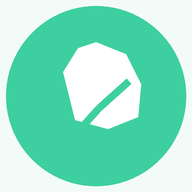
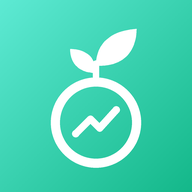
version 2 - changed app name to ISIGO

diff --git a/public/index.html b/public/index.html
@@ -1,7 +1,7 @@
 <!DOCTYPE html>
 <html lang="en"><head><meta charset="utf-8">
 <meta name="viewport" content="width=device-width, initial-scale=1, viewport-fit=cover">
-<title>Mint Budget</title>
+<title>ISIGO: Budget Tracker</title>
 <link rel="manifest" href="/manifest.webmanifest"><meta name="theme-color" content="#3ecfa0"><link rel="icon" href="/icon-192.png"><link rel="apple-touch-icon" href="/icon-192.png"><meta name="apple-mobile-web-app-capable" content="yes">
 <style>
 :root{box-sizing:border-box;padding-top:env(safe-area-inset-top,0px);padding-bottom:env(safe-area-inset-bottom,0px);--bg:#f3fbf8;--card:#fff;--ink:#12332b;--mut:#6b8a82;--mint:#3ecfa0;--mint2:#d9f5ea;--warn:#e9a93a;--bad:#e5645f;--line:#dcece6}
@@ -19,12 +19,34 @@ main{margin-left:240px;padding:24px;max-width:980px}
 @media(max-width:760px){aside{transform:translateX(-100%)}aside.open{transform:none}.scrim.open{display:block;position:fixed;inset:0;background:#0006;z-index:15}
 main{margin:0;padding:16px}.top{display:flex;align-items:center;gap:10px;margin-bottom:12px}.top button{all:unset;cursor:pointer;font-size:22px;padding:4px 8px}}
 h2{margin:0 0 4px;font-size:22px}
+.logo{display:flex;align-items:center;gap:10px}.logo .lg{width:32px;height:32px}
+.nl{margin:14px 12px 4px;color:var(--mut);font-size:11px;letter-spacing:.08em;text-transform:uppercase}
+.lg{display:block}.lg .ring,.lg .tr{stroke-dasharray:1;stroke-dashoffset:1;animation:dr .9s .1s ease forwards}
+.lg .tr{animation-duration:.6s;animation-delay:.9s}
+.lg .lf{transform-box:fill-box;transform-origin:0 100%;transform:scale(0);animation:gr .6s 1.3s cubic-bezier(.2,1.5,.4,1) forwards}
+.lg .l2{transform-origin:100% 100%;animation-delay:1.5s}
+@keyframes dr{to{stroke-dashoffset:0}}@keyframes gr{to{transform:scale(1)}}@keyframes fl{50%{transform:translateY(-5px)}}@keyframes fu{to{opacity:1;transform:none}}
+.lg.st *,.lg.fl *{animation:none!important;stroke-dashoffset:0!important;transform:scale(1)!important}
+.lg.fl{animation:fl 4s ease-in-out infinite}
+.tiles{display:grid;grid-template-columns:repeat(auto-fit,minmax(240px,1fr));gap:16px}
+.tile{position:relative;overflow:hidden;border-radius:24px;padding:22px;min-height:150px;display:flex;flex-direction:column;justify-content:space-between;gap:14px;cursor:pointer;color:#06281e;box-shadow:0 10px 28px color-mix(in srgb,var(--mint) 28%,transparent);transition:transform .2s}
+.tile:hover{transform:translateY(-3px)}.tile:active{transform:scale(.98)}
+.tile::after{content:"";position:absolute;right:-40px;top:-40px;width:150px;height:150px;border-radius:50%;background:#fff;opacity:.22}
+.t1{background:linear-gradient(135deg,#7eeacd,#2fc79a)}.t2{background:linear-gradient(135deg,#c6f6e6,#86e0c4)}
+.tile .ti{font-size:34px;line-height:1}.tile b{font-size:19px;display:block}.tile small{opacity:.8;font-size:13px;display:block;padding-right:34px}.tile .ar{position:absolute;right:20px;bottom:18px;font-size:22px;font-weight:700}
+#toast{position:fixed;left:50%;bottom:calc(24px + env(safe-area-inset-bottom,0px));transform:translate(-50%,30px);background:var(--ink);color:var(--bg);padding:10px 18px;border-radius:99px;font-size:14px;opacity:0;pointer-events:none;transition:.3s;z-index:90;max-width:90vw;text-align:center}
+#toast.show{opacity:1;transform:translate(-50%,0)}#toast.bad{background:var(--bad);color:#fff}
+#splash{position:fixed;inset:0;z-index:100;background:linear-gradient(160deg,#c3f5e3,#3ecfa0 60%,#14b88a);display:flex;align-items:center;justify-content:center;transition:opacity .6s}
+#splash.out{opacity:0;pointer-events:none}.sp{text-align:center;color:#06281e}.sp .lg{width:120px;height:120px;margin:0 auto 18px;filter:drop-shadow(0 10px 20px #0003)}.sp .lg rect{fill:rgba(255,255,255,.22)}
+.spt{font-size:40px;font-weight:800;letter-spacing:.18em;padding-left:.18em}.spt b{display:inline-block;opacity:0;transform:translateY(14px);animation:fu .5s forwards}
+.sps{opacity:0;animation:fu .6s 2.1s forwards;letter-spacing:.22em;text-transform:uppercase;font-size:12px;margin-top:4px}
+@media(prefers-reduced-motion:reduce){.lg *{animation:none!important;stroke-dashoffset:0!important;transform:scale(1)!important}.lg.fl,#splash *{animation:none!important;opacity:1!important;transform:none!important}}
 .home{position:relative;overflow:hidden;min-height:calc(100vh - 80px);padding:4px;isolation:isolate}
 .home .d1,.home .d2,.home .d3{position:absolute;z-index:-1;pointer-events:none}
 .home .d1{width:300px;top:-60px;right:-80px;opacity:.22}
 .home .d2{width:340px;bottom:-70px;left:-90px;opacity:.14;transform:rotate(-15deg)}
 .home .d3{right:6%;bottom:12%;opacity:.25}
-.hero{display:flex;gap:16px;align-items:center;margin:8px 0 22px}.hero .lg{width:64px;height:64px;flex:none}.hero h2{font-size:26px}.hero .sub{margin:0}
+.hero{display:flex;gap:16px;align-items:center;margin:8px 0 22px}.hero .lg{width:76px;height:76px;flex:none}.hero h2{font-size:26px}.hero .sub{margin:0}
 .home .card{background:color-mix(in srgb,var(--card) 85%,transparent);backdrop-filter:blur(6px)}p.sub{margin:0 0 18px;color:var(--mut)}
 .card{background:var(--card);border:1px solid var(--line);border-radius:18px;padding:16px;margin-bottom:14px}
 .grid{display:grid;grid-template-columns:repeat(auto-fit,minmax(150px,1fr));gap:12px;margin-bottom:14px}
@@ -45,17 +67,18 @@ label{display:block;font-size:13px;color:var(--mut);margin:10px 0 4px}
 .alert{padding:10px 14px;border-radius:12px;background:var(--mint2);margin-bottom:8px}.alert.bad{background:var(--bad);color:#fff}
 .tip{display:flex;gap:10px;padding:10px 0;border-bottom:1px solid var(--line)}.tip:last-child{border:0}
 </style></head><body>
-<aside id="side"><div class="logo">🌿 Mint Budget</div></aside>
+<svg width="0" height="0" style="position:absolute"><defs><linearGradient id="lgG" x1="0" y1="0" x2="1" y2="1"><stop offset="0" stop-color="#5eead4"/><stop offset="1" stop-color="#14b88a"/></linearGradient></defs></svg><aside id="side"></aside><div id="toast"></div>
 <div class="scrim" id="scrim" onclick="tg()"></div>
-<main><div class="top"><button onclick="tg()">☰</button><b>Mint Budget</b></div><div id="v"></div></main>
+<main><div class="top"><button onclick="tg()">☰</button><b>ISIGO</b></div><div id="v"></div></main>
 <script>
 const $=s=>document.querySelector(s);
-const NAV=[['home','🏠','Home'],['dash','📊','Dashboard'],['setup','⚙','Budget Setup'],['bills','🧾','Bills'],['quick','⚡','Quick Spend'],['tips','💡','Tips'],['notif','🔔','Reminders']];
-let DB={act:null,list:[]},S=null,view='home',qcat='🍔 Food',hr='m';
+const NAV=[['home','🏠','Home'],['Budget Tracker'],['budgets','🗂','My Budgets'],['dash','📊','Dashboard'],['setup','⚙','Budget Setup'],['bills','🧾','Bills'],['quick','⚡','Quick Spend'],['tips','💡','Tips'],['notif','🔔','Reminders'],['Savings'],['savings','🐷','Savings Tracker']];
+let DB={act:null,list:[]},S=null,view='home',qcat='🍔 Food',hr='m',DRAFT=null;
 const newB=n=>({id:Date.now(),name:n,created:Date.now(),cur:'₱',freq:'monthly',amt:0,d1:15,d2:30,bills:[],paid:{},spends:[],nOn:false,nDays:3});
 try{const j=JSON.parse(localStorage.getItem('mint2')||'null');if(j)DB=j;else{const o=JSON.parse(localStorage.getItem('mint')||'null');if(o&&(o.amt||(o.bills&&o.bills.length))){const b=Object.assign(newB('My Budget'),o);DB={act:b.id,list:[b]}}}}catch(e){}
 const save=()=>{try{localStorage.setItem('mint2',JSON.stringify(DB))}catch(e){}try{clearTimeout(window._ps);window._ps=setTimeout(syncPush,800)}catch(e){}};
-const pick=()=>{S=DB.list.find(b=>b.id===DB.act)||null};pick();
+DB.sav=DB.sav||[];DB.list=DB.list.filter(b=>b.amt>0||b.bills.length||b.spends.length);if(!DB.list.find(b=>b.id===DB.act))DB.act=DB.list[0]?DB.list[0].id:null;
+const pick=()=>{S=DRAFT||DB.list.find(b=>b.id===DB.act)||null};pick();
 const mk=()=>{const d=new Date();return d.getFullYear()+'-'+(d.getMonth()+1)};
 const m=n=>S.cur+Math.round(n).toLocaleString();
 const dueD=d=>{const n=new Date(),l=new Date(n.getFullYear(),n.getMonth()+1,0).getDate();return new Date(n.getFullYear(),n.getMonth(),Math.min(d,l))};
@@ -69,8 +92,8 @@ function calc(){const inc=S.amt*(S.freq==='bimonthly'?2:1),bt=S.bills.reduce((a,
 function sorted(){return[...S.bills].sort((a,b)=>(isPaid(a)-isPaid(b))||left(a.day)-left(b.day))}
 function due(b){const l=left(b.day);return isPaid(b)?'Paid ✓':l<0?`Overdue ${-l}d`:l===0?'Due today':`In ${l} day${l>1?'s':''}`}
 function tg(){$('#side').classList.toggle('open');$('#scrim').classList.toggle('open')}
-function go(x){view=x;$('#side').classList.remove('open');$('#scrim').classList.remove('open');render()}
-function nav(){$('#side').innerHTML='<div class="logo">🌿 Mint Budget</div>'+NAV.map(n=>`<button class="${view===n[0]?'on':''}" onclick="go('${n[0]}')"><span>${n[1]}</span>${n[2]}</button>`).join('')}
+function go(x){if(DRAFT&&x!=='setup'){DRAFT=null;pick()}view=x;$('#side').classList.remove('open');$('#scrim').classList.remove('open');render()}
+function nav(){$('#side').innerHTML=`<div class="logo">${logo('st')}ISIGO</div>`+NAV.map(n=>n.length<3?`<small class="nl">${n[0]}</small>`:`<button class="${view===n[0]?'on':''}" onclick="go('${n[0]}')"><span>${n[1]}</span>${n[2]}</button>`).join('')}
 function donut(c){const tot=Math.max(c.inc,c.bt+c.sp,1),seg=[[c.bt,'var(--warn)'],[c.sp,'#7aa7f0'],[Math.max(c.lf,0),'var(--mint)']];let o=25,s='';
  seg.forEach(([v,col])=>{const p=v/tot*100;s+=`<circle r="15.9" cx="21" cy="21" fill="none" stroke="${col}" stroke-width="5" stroke-dasharray="${p} ${100-p}" stroke-dashoffset="${o}"/>`;o-=p});
  const ring=c.lf<0?'<circle r="15.9" cx="21" cy="21" fill="none" stroke="var(--bad)" stroke-width="5"/>':'<circle r="15.9" cx="21" cy="21" fill="none" stroke="var(--mint2)" stroke-width="5"/>'+s;
@@ -87,13 +110,35 @@ function tips(c){const t=[];if(c.inc<=0)return[['👋','Start in Budget Setup: e
  t.push(['🛟','Rule of thumb: 50% needs, 30% wants, 20% savings. Build an emergency fund of 3 months of bills.']);
  if(S.freq==='bimonthly')t.push(['📅','Bi-monthly pay: pay big bills from the paycheck closest to their due date and keep a buffer from each.']);
  return t}
-const LOGO='<svg class="lg" viewBox="0 0 64 64"><circle cx="32" cy="32" r="30" fill="var(--mint)"/><path d="M32 14c11 4 17 13 14 25-13 3-23-4-25-15 2-5 6-8 11-10z" fill="#fff" opacity=".95"/><path d="M24 46c4-9 10-15 19-19" stroke="var(--mint)" stroke-width="2.5" fill="none" stroke-linecap="round"/></svg>';
+const logo=c=>`<svg class="lg ${c||''}" viewBox="0 0 96 96"><rect width="96" height="96" rx="26" fill="url(#lgG)"/><circle class="ring" pathLength="1" cx="48" cy="60" r="22" fill="none" stroke="#fff" stroke-width="5"/><path class="tr" pathLength="1" d="M48 38V28" stroke="#fff" stroke-width="3.5" stroke-linecap="round" fill="none"/><path class="tr" pathLength="1" d="M37 66L45 58L50 63L59 53" fill="none" stroke="#fff" stroke-width="4" stroke-linecap="round" stroke-linejoin="round"/><path class="lf" d="M48 29C48 17 56 10 70 9C70 22 62 30 48 29Z" fill="#fff"/><path class="lf l2" d="M48 33C48 25 43 20 34 20C34 28 39 33 48 33Z" fill="#fff" opacity=".85"/></svg>`;
 const DECO='<svg class="d1" viewBox="0 0 200 200" fill="none" stroke="var(--mint)"><circle cx="100" cy="100" r="95"/><circle cx="100" cy="100" r="70"/><circle cx="100" cy="100" r="45"/><circle cx="100" cy="100" r="20" fill="var(--mint)"/></svg><svg class="d2" viewBox="0 0 64 64"><path d="M32 4c18 6 28 22 24 42-22 5-40-6-44-24C14 12 22 6 32 4z" fill="var(--mint)"/><path d="M14 58C22 36 34 24 50 16" stroke="var(--bg)" stroke-width="2" fill="none"/></svg><svg class="d3" width="140" height="140"><defs><pattern id="dp" width="20" height="20" patternUnits="userSpaceOnUse"><circle cx="2" cy="2" r="2" fill="var(--mint)"/></pattern></defs><rect width="140" height="140" fill="url(#dp)"/></svg>';
-function homeV(){const c=S?calc():null;const ex=DB.list.map(b=>{const t=b.amt*(b.freq==='bimonthly'?2:1);return`<div class="row"><div class="g">${b.name}<br><small>${b.freq==='bimonthly'?'Bi-monthly':'Monthly'} · ${b.cur}${Math.round(t).toLocaleString()}/mo · ${b.bills.length} bills${b.id===DB.act?' · active':''}</small></div><button class="btn s" onclick="useB(${b.id})">Continue</button><button class="x" onclick="delBud(${b.id})">✕</button></div>`}).join('');
- return`<div class="home">${DECO}<div class="hero">${LOGO}<div><h2>Mint Budget</h2><p class="sub">Plan. Pay. Breathe. Pick up where you left off, or start fresh.</p></div></div>${S?`<div class="card"><b>Continue with “${S.name}”</b> <span class="pill ${c.st[1]}">${c.st[0]}</span><p class="sub" style="margin:6px 0 0">${m(c.lf)} left this month</p><button class="btn" onclick="go('dash')">Continue →</button></div>`:''}${DB.list.length?`<div class="card"><b>Your budgets</b>${ex}</div>`:''}<div class="card"><b>Create a new budget</b><div class="f"><div><label>Budget name</label><input id="hn" placeholder="e.g. October budget"></div></div><button class="btn" onclick="newBud()">Create and set up</button></div></div>`}
+function homeV(){const c=S?calc():null,G=DB.sav,I=G.map(gInfo),avg=G.length?G.reduce((a,g,k)=>a+Math.min(I[k].s/g.target,1),0)/G.length:0;
+ return`<div class="home">${DECO}<div class="hero">${logo('fl')}<div><h2>ISIGO</h2><p class="sub">Budget Tracker · Plan. Pay. Save.</p></div></div>
+ <p class="sub" style="margin-bottom:12px">What would you like to do?</p>
+ <div class="tiles"><div class="tile t1" onclick="go('budgets')"><span class="ti">📊</span><div><b>Budget Tracker</b><small>${S?'Continue with “'+S.name+'” · '+(c.inc>0?c.st[0]:'needs setup'):'Plan your salary, bills and spending'}</small></div><span class="ar">→</span></div>
+ <div class="tile t2" onclick="go('savings')"><span class="ti">🐷</span><div><b>Savings Tracker</b><small>${G.length?G.length+' goal'+(G.length>1?'s':'')+' · '+Math.round(avg*100)+'% complete':'Set a goal and watch it grow'}</small></div><span class="ar">→</span></div></div></div>`}
+const stB=c=>c.inc<=0?`<button class="btn s" onclick="go('setup')">Set up budget →</button>`:`<span class="pill ${c.st[1]}">${c.st[0]}</span>`;
+function budV(){const c=S?calc():null;const ex=DB.list.filter(b=>b.id!==DB.act).map(b=>{const t=b.amt*(b.freq==='bimonthly'?2:1);return`<div class="row"><div class="g">${b.name}<br><small>${b.freq==='bimonthly'?'Bi-monthly':'Monthly'} · ${b.cur}${Math.round(t).toLocaleString()}/mo · ${b.bills.length} bills</small></div><button class="btn s" onclick="useB(${b.id})">Switch</button><button class="x" onclick="delBud(${b.id})">✕</button></div>`}).join('');
+ return`<h2>My Budgets</h2><p class="sub">Continue your budget or create a new one.</p>${S?`<div class="card"><b>“${S.name}”</b> ${c.inc>0?`<span class="pill ${c.st[1]}">${c.st[0]}</span>`:''}<p class="sub" style="margin:6px 0 0">${c.inc>0?m(c.lf)+' left this month':'Finish setting up to start tracking'}</p>${c.inc>0?`<button class="btn" onclick="go('dash')">Continue →</button>`:`<button class="btn" onclick="go('setup')">Finish setup →</button>`}<button class="x" onclick="delBud(${S.id})">Delete</button></div>`:''}${ex?`<div class="card"><b>Other budgets</b>${ex}</div>`:''}<div class="card"><b>Create a new budget</b><div class="f"><div><label>Budget name</label><input id="hn" placeholder="e.g. October budget"></div></div><button class="btn" onclick="newBud()">Create and set up</button></div>`}
 function useB(i){DB.act=i;save();pick();go('dash')}
-function newBud(){const n=($('#hn').value||'').trim()||'Budget '+(DB.list.length+1),b=newB(n);DB.list.push(b);DB.act=b.id;save();pick();go('setup')}
+function newBud(){const n=($('#hn').value||'').trim()||'Budget '+(DB.list.length+1);DRAFT=newB(n);pick();go('setup')}
 function delBud(i){if(!confirm('Delete this budget?'))return;DB.list=DB.list.filter(b=>b.id!==i);if(DB.act===i)DB.act=DB.list[0]?DB.list[0].id:null;save();pick();render()}
+const gSaved=g=>g.dep.reduce((a,d)=>a+d.amt,0),gc=(g,n)=>g.cur+Math.round(n).toLocaleString(),sc=()=>DB.scur||(DB.list[0]&&DB.list[0].cur)||'₱';
+const gmo=g=>{const a=new Date(g.start),n=new Date();return(n.getFullYear()-a.getFullYear())*12+n.getMonth()-a.getMonth()+(n.getDate()-a.getDate())/30};
+function ring(p,z,col){const c=Math.min(Math.max(p,0),1)*100;return`<svg width="${z}" height="${z}" viewBox="0 0 42 42"><circle r="15.9" cx="21" cy="21" fill="none" stroke="var(--mint2)" stroke-width="5"/><circle r="15.9" cx="21" cy="21" fill="none" stroke="${col||'var(--mint)'}" stroke-width="5" stroke-linecap="${c>0?'round':'butt'}" stroke-dasharray="${c} ${100-c}" stroke-dashoffset="25"/><text x="21" y="23.6" text-anchor="middle" font-size="8" font-weight="700" fill="var(--ink)">${Math.round(c)}%</text></svg>`}
+function gInfo(g){const s=gSaved(g),el=Math.max(gmo(g),0),dl=new Date(g.start);dl.setMonth(dl.getMonth()+g.months);const left=Math.max(g.months-el,0),exp=g.target*Math.min(el/g.months,1),done=s>=g.target;
+ const tag=done?['Completed 🎉','ok','var(--mint)']:Date.now()>dl?['Past deadline','bad','var(--bad)']:s>=exp*.95?['On track','ok','var(--mint)']:['Behind','tight','var(--warn)'];
+ return{s,dl,done,tag,need:Math.max(g.target-s,0)/Math.max(Math.ceil(left),1)}}
+function savV(){const G=DB.sav,I=G.map(gInfo),avg=G.length?G.reduce((a,g,k)=>a+Math.min(I[k].s/g.target,1),0)/G.length:0,
+ form=`<div class="card"><b>New savings goal</b><div class="f"><div><label>Goal name</label><input id="gn" placeholder="Emergency fund"></div><div><label>Target amount</label><input id="gt" type="number" min="1"></div><div><label>Time frame</label><input id="gm" type="number" min="1" value="12"></div><div><label>Unit</label><select id="gu"><option value="1">Months</option><option value="12">Years</option></select></div><div><label>Currency</label><select id="gcu">${curOpts(sc())}</select></div></div><button class="btn" onclick="addG()">Add goal</button></div>`;
+ return`<h2>Savings Tracker</h2><p class="sub">Set a goal, log what you save, and watch it fill up.</p>${G.length?`<div class="card"><b>Overall progress</b><div class="chart">${ring(avg,150)}<div><div>🎯 ${I.filter(x=>x.done).length} of ${G.length} goal${G.length>1?'s':''} reached</div>${G.map((g,k)=>{const q=Math.min(I[k].s/g.target,1)*100;return`<div style="margin-top:8px;min-width:170px">${g.name}<small style="float:right">${Math.round(q)}%</small><div class="bar"><i style="width:${q}%"></i></div></div>`}).join('')}</div></div></div>`:''}${G.length?'':form}${G.map((g,k)=>{const x=I[k],p=Math.min(x.s/g.target,1);return`<div class="card"><div class="chart">${ring(p,110,x.tag[2])}<div style="flex:1;min-width:180px"><b>${g.name}</b> <span class="pill ${x.tag[1]}">${x.tag[0]}</span><br><small>Target ${gc(g,g.target)} · by ${x.dl.toLocaleString('default',{month:'short',year:'numeric'})} (${g.months%12?g.months+' mo':g.months/12+' yr'})</small><br>Saved <b>${gc(g,x.s)}</b> · ${x.done?'Goal reached!':'Left '+gc(g,g.target-x.s)}${x.done?'':`<br><small>Save about ${gc(g,x.need)}/month to finish on time</small>`}</div></div><div class="f" style="margin-top:10px"><input id="dp${g.id}" type="number" min="0" placeholder="Amount saved"><button class="btn s" onclick="addDep(${g.id})">+ Add savings</button></div><div style="margin-top:8px"><button class="x" onclick="undoDep(${g.id})">Undo last</button><button class="x" onclick="delG(${g.id})">Delete goal</button></div></div>`}).join('')}${G.length?form:''}`}
+function addG(){const n=($('#gn').value||'').trim()||'Savings goal',t=+$('#gt').value,mm=Math.round((+$('#gm').value||0)*+$('#gu').value);
+ if(!(t>0)){toast('Enter your target amount',1);return}if(!(mm>0)||mm>240){toast('Enter a time frame (up to 20 years)',1);return}
+ const cu=$('#gcu').value;DB.scur=cu;DB.sav.push({id:Date.now(),name:n,target:t,months:mm,cur:cu,start:Date.now(),dep:[]});save();toast('Goal added 🎯');render()}
+function addDep(i){const g=DB.sav.find(x=>x.id===i),a=+$('#dp'+i).value;if(!g||!(a>0)){toast('Enter the amount you saved',1);return}
+ const was=gSaved(g)>=g.target;g.dep.push({id:Date.now(),amt:a});save();toast(!was&&gSaved(g)>=g.target?'Goal reached! 🎉':'Saved '+gc(g,a)+' 🌱');render()}
+function undoDep(i){const g=DB.sav.find(x=>x.id===i);if(g&&g.dep.length){g.dep.pop();save();render()}}
+function delG(i){if(!confirm('Delete this goal?'))return;DB.sav=DB.sav.filter(x=>x.id!==i);save();render()}
 function periods(){const inc=S.amt*(S.freq==='bimonthly'?2:1),now=new Date(),c0=new Date(S.created||Date.now()),all=[];
  if(hr==='m'){const cur=now.getFullYear()*12+now.getMonth();for(let t=c0.getFullYear()*12+c0.getMonth();t<=cur;t++){const yy=Math.floor(t/12),mm=t%12,key=yy+'-'+(mm+1);
   const bt=S.bills.filter(b=>{const d=new Date(b.id);return d.getFullYear()*12+d.getMonth()<=t}).reduce((a,b)=>a+b.amt,0);
@@ -107,22 +152,22 @@ function trend(){const P=periods(),n=P.length,vs=P.map(p=>p.v),mn=Math.min(0,...
  const line=n>1?`<polyline fill="none" stroke="var(--mint)" stroke-width="2.5" points="${P.map((p,i)=>px(i)+','+py(p.v)).join(' ')}"/>`:'';
  const dots=P.map((p,i)=>`<circle cx="${px(i)}" cy="${py(p.v)}" r="5" fill="${p.v<0?'var(--bad)':'var(--mint)'}"/><text x="${px(i)}" y="${H-8}" text-anchor="middle" font-size="11" fill="var(--mut)">${p.l}</text>`).join('');
  return`<div class="card"><div style="display:flex;justify-content:space-between;align-items:center"><b>Budget trend</b><span><button class="chip ${hr==='m'?'on':''}" onclick="hr='m';render()">Months</button> <button class="chip ${hr==='w'?'on':''}" onclick="hr='w';render()">Weeks</button></span></div><svg viewBox="0 0 ${W} ${H}" style="width:100%;height:auto;margin-top:8px"><line x1="10" x2="${W-10}" y1="${py(0)}" y2="${py(0)}" stroke="var(--mut)" stroke-dasharray="4 4"/><text x="12" y="${py(0)-4}" font-size="10" fill="var(--mut)">0</text>${line}${dots}</svg>${P.map(p=>`<div class="row"><div class="g">${p.l}</div><span class="pill ${p.v<0?'bad':'ok'}">${p.v<0?'Short '+m(-p.v):'Extra '+m(p.v)}</span></div>`).join('')}<p class="sub" style="margin:8px 0 0;font-size:13px">${hr==='m'?'Income minus bills and quick spends each month.':'Weekly room (income minus bills, spread over weeks) minus quick spends.'} History starts when this budget was created${n<2?', so more points appear as time passes':''}.</p></div>`}
-function render(){if(!S&&view!=='home')view='home';nav();const c=S?calc():null,V=$('#v');let h='';
-if(view==='home')h=homeV();
+function render(){if(!S&&!['home','savings','budgets'].includes(view))view='budgets';nav();const c=S?calc():null,V=$('#v');let h='';
+if(view==='home')h=homeV();if(view==='budgets')h=budV();if(view==='savings')h=savV();
 if(view==='dash'){const up=sorted().filter(b=>!isPaid(b)).slice(0,4),ct=cats(),mx=ct[0]?ct[0][1]:1;
- h=`<h2>${S.name||'Dashboard'}</h2><p class="sub">${new Date().toLocaleString('default',{month:'long',year:'numeric'})} · <span class="pill ${c.st[1]}">${c.st[0]}</span></p>
+ h=`<h2>${S.name||'Dashboard'}</h2><p class="sub">${new Date().toLocaleString('default',{month:'long',year:'numeric'})} · ${stB(c)}</p>
  <div class="grid"><div class="card stat"><small>Income</small><b>${m(c.inc)}</b></div><div class="card stat"><small>Bills</small><b>${m(c.bt)}</b></div><div class="card stat"><small>Quick spends</small><b>${m(c.sp)}</b></div><div class="card stat"><small>Remaining</small><b style="color:${c.lf<0?'var(--bad)':'inherit'}">${m(c.lf)}</b></div></div>
  <div class="card"><b>Where your money goes</b><div class="chart">${donut(c)}<div><div>🟡 Bills ${m(c.bt)}</div><div>🔵 Quick spends ${m(c.sp)}</div><div>🟢 Left ${m(Math.max(c.lf,0))}</div><div style="color:var(--mut);margin-top:8px">Bills paid: ${m(c.pd)} of ${m(c.bt)}</div></div></div></div>
  <div class="card"><b>Spending by category</b>${ct.length?ct.map(([k,v])=>`<div style="margin-top:10px">${k} <small style="float:right">${m(v)}</small><div class="bar"><i style="width:${v/mx*100}%"></i></div></div>`).join(''):'<p class="sub">No data yet.</p>'}</div>
  ${trend()}
  ${S.freq==='bimonthly'&&S.amt?pay():''}
  <div class="card"><b>Pay next</b>${up.length?up.map(b=>`<div class="row"><div class="g">${b.name}<br><small>${due(b)} · day ${b.day}</small></div><b>${m(b.amt)}</b></div>`).join(''):'<p class="sub">Nothing pending 🎉</p>'}</div>`}
-if(view==='setup')h=`<h2>Budget Setup</h2><p class="sub">Tell us how you get paid.</p><div class="card"><div class="f">
- <div><label>Currency symbol</label><input id="cur" value="${S.cur}" maxlength="3"></div>
- <div><label>Salary schedule</label><select id="fr" onchange="S.freq=this.value;sv(1)"><option value="monthly" ${S.freq==='monthly'?'selected':''}>Once a month</option><option value="bimonthly" ${S.freq==='bimonthly'?'selected':''}>Bi-monthly (twice a month)</option></select></div>
+if(view==='setup')h=`<h2>${DRAFT?'New budget: '+S.name:'Budget Setup'}</h2><p class="sub">Tell us how you get paid.</p><div class="card"><div class="f">
+ <div><label>Currency</label><select id="cur">${curOpts(S.cur)}</select></div>
+ <div><label>Salary schedule</label><select id="fr" onchange="chFr(this.value)"><option value="monthly" ${S.freq==='monthly'?'selected':''}>Once a month</option><option value="bimonthly" ${S.freq==='bimonthly'?'selected':''}>Bi-monthly (twice a month)</option></select></div>
  <div><label>${S.freq==='bimonthly'?'Amount per payday':'Monthly salary'}</label><input id="am" type="number" min="0" value="${S.amt||''}"></div></div>
  ${S.freq==='bimonthly'?`<div class="f"><div><label>1st payday (day of month)</label><input id="d1" type="number" min="1" max="31" value="${S.d1}"></div><div><label>2nd payday (day of month)</label><input id="d2" type="number" min="1" max="31" value="${S.d2}"></div></div>`:''}
- <button class="btn" onclick="sv()">Save setup</button></div>
+ <button class="btn" onclick="sv()">${DRAFT?'Create budget':'Save setup'}</button>${DRAFT?`<button class="btn s" style="margin-left:8px" onclick="go('budgets')">Cancel</button>`:''}</div>
  <p class="sub">Total monthly income: <b>${m(c.inc)}</b></p>`;
 if(view==='bills')h=`<h2>Bills</h2><p class="sub">Sorted by what's due soonest.</p><div class="card"><b>Add a bill</b><div class="f"><div><label>Name</label><input id="bn" placeholder="Electricity"></div><div><label>Amount</label><input id="ba" type="number" min="0"></div><div><label>Due day of month</label><input id="bd" type="number" min="1" max="31"></div><div><label>Category</label><select id="bc"><option>🏠 Housing</option><option>💡 Utilities</option><option>📱 Subscriptions</option><option>🚗 Transport</option><option>💳 Debt</option><option>📦 Other</option></select></div></div><button class="btn" onclick="addB()">Add bill</button></div>
  <div class="card">${sorted().map(b=>{const l=left(b.day),p=isPaid(b);return`<div class="row"><div class="g">${b.cat.split(' ')[0]} ${b.name}<br><small><span class="pill ${p?'ok':l<0?'bad':l<=3?'tight':''}">${due(b)}</span> · day ${b.day}</small></div><b>${m(b.amt)}</b><button class="btn s" onclick="pay1(${b.id})">${p?'Undo':'Mark paid'}</button><button class="x" onclick="delB(${b.id})">✕</button></div>`}).join('')||'<p class="sub">No bills yet.</p>'}</div>`;
@@ -138,7 +183,15 @@ if(view==='notif'){const al=alerts();h=`<h2>Reminders</h2><p class="sub">Get not
 V.innerHTML=view==='home'?h:`<div class="home">${DECO}${h}</div>`}
 function pay(){const a=S.amt,res=[[S.d1,S.d2,0],[S.d2,S.d1,0]];const p1=S.bills.filter(b=>b.day>=S.d1&&b.day<S.d2).reduce((x,b)=>x+b.amt,0),p2=S.bills.reduce((x,b)=>x+b.amt,0)-p1;
  return`<div class="card"><b>Per paycheck</b><div class="row"><div class="g">Payday ${S.d1}<br><small>Bills ${m(p1)}</small></div><b style="color:${a-p1<0?'var(--bad)':'inherit'}">${m(a-p1)} free</b></div><div class="row"><div class="g">Payday ${S.d2}<br><small>Bills ${m(p2)}</small></div><b style="color:${a-p2<0?'var(--bad)':'inherit'}">${m(a-p2)} free</b></div></div>`}
-function sv(r){if(!r){S.cur=$('#cur').value||'₱';S.amt=+$('#am').value||0;if($('#d1')){S.d1=+$('#d1').value||15;S.d2=+$('#d2').value||30}}save();render()}
+const CURS=[['₱','Philippine Peso'],['$','US Dollar'],['S$','Singapore Dollar'],['€','Euro'],['£','British Pound'],['¥','Japanese Yen'],['₩','Korean Won'],['₹','Indian Rupee'],['A$','Australian Dollar'],['C$','Canadian Dollar'],['RM','Malaysian Ringgit'],['฿','Thai Baht'],['Rp','Indonesian Rupiah'],['₫','Vietnamese Dong'],['CN¥','Chinese Yuan'],['AED','UAE Dirham']];
+const curOpts=v=>(CURS.some(c=>c[0]===v)?CURS:[[v,'Custom'],...CURS]).map(c=>`<option value="${c[0]}" ${c[0]===v?'selected':''}>${c[0]} – ${c[1]}</option>`).join('');
+function toast(t,bad){const e=$('#toast');e.textContent=t;e.className='show'+(bad?' bad':'');clearTimeout(e._t);e._t=setTimeout(()=>e.className='',2800)}
+function rdF(){if($('#cur'))S.cur=$('#cur').value;if($('#am'))S.amt=+$('#am').value||0;if($('#d1')){S.d1=+$('#d1').value||15;S.d2=+$('#d2').value||30}}
+function chFr(v){rdF();S.freq=v;if(!DRAFT)save();render()}
+function sv(){rdF();if(!(S.amt>0)){toast('Enter your salary amount first',1);return}
+ if(S.freq==='bimonthly'&&!(S.d1>=1&&S.d2<=31&&S.d1<S.d2)){toast('Set two paydays, the first earlier than the second',1);return}
+ const nw=!!DRAFT;if(nw){DB.list.push(DRAFT);DB.act=DRAFT.id;DRAFT=null}save();
+ toast(nw?'✓ Budget created! Now add your bills.':'✓ Setup saved');go(nw?'bills':'dash')}
 function addB(){const n=$('#bn').value.trim(),a=+$('#ba').value,d=+$('#bd').value;if(!n||!a||d<1||d>31)return;S.bills.push({id:Date.now(),name:n,amt:a,day:d,cat:$('#bc').value});save();render()}
 function delB(i){S.bills=S.bills.filter(b=>b.id!==i);save();render()}
 function pay1(i){const k=mk(),l=S.paid[k]||[];S.paid[k]=l.includes(i)?l.filter(x=>x!==i):[...l,i];save();render()}
@@ -165,5 +218,8 @@ async function enN(){if(!('serviceWorker' in navigator)||!('PushManager' in wind
   await r.pushManager.getSubscription()||await r.pushManager.subscribe({userVisibleOnly:true,applicationServerKey:b64(k)});S.nOn=true;save();await syncPush();render()}catch(e){alert('Could not enable push: '+e.message)}}
 async function testN(){try{const r=await navigator.serviceWorker.ready,sub=await r.pushManager.getSubscription();if(!sub){alert('Enable notifications first.');return}
  await fetch('/api/test',{method:'POST',headers:{'Content-Type':'application/json'},body:JSON.stringify({sub:sub.toJSON()})})}catch(e){}}
-render();sw().then(syncPush);
+function splash(){try{if(sessionStorage.getItem('isigo'))return;sessionStorage.setItem('isigo','1')}catch(e){}
+ document.body.insertAdjacentHTML('afterbegin',`<div id="splash"><div class="sp">${logo('')}<div class="spt">${'ISIGO'.split('').map((l,k)=>`<b style="animation-delay:${1.5+k*.08}s">${l}</b>`).join('')}</div><div class="sps">Budget Tracker</div></div></div>`);
+ setTimeout(()=>{const e=$('#splash');if(e){e.classList.add('out');setTimeout(()=>e.remove(),700)}},2900)}
+render();splash();sw().then(syncPush);
 </script></body></html>

diff --git a/server.js b/server.js
@@ -12,11 +12,11 @@ app.post('/api/sync',(q,s)=>{const{sub,reminders}=q.body||{};if(!ok(sub)||!Array
  const old=D.subs[sub.endpoint],rem=reminders.slice(0,600).map(r=>({id:String(r.id).slice(0,80),at:new Date(r.at).getTime(),title:String(r.title).slice(0,80),body:String(r.body).slice(0,160)})).filter(r=>r.at>0);
  const keys=new Set(rem.map(r=>r.id+'@'+r.at));D.subs[sub.endpoint]={sub,reminders:rem,sent:(old?old.sent:[]).filter(k=>keys.has(k))};save();s.json({ok:true,count:rem.length})});
 app.post('/api/test',async(q,s)=>{const sub=(q.body||{}).sub;if(!ok(sub))return s.sendStatus(400);
- try{await webpush.sendNotification(sub,JSON.stringify({title:'Mint Budget',body:'Notifications are working \u{1F33F}'}));s.json({ok:true})}catch(e){s.sendStatus(502)}});
+ try{await webpush.sendNotification(sub,JSON.stringify({title:'ISIGO',body:'Notifications are working \u{1F33F}'}));s.json({ok:true})}catch(e){s.sendStatus(502)}});
 async function tick(){const now=Date.now();let dirty=false;
  for(const[ep,u]of Object.entries(D.subs)){for(const r of u.reminders){const k=r.id+'@'+r.at;if(r.at>now||r.at<now-6*36e5||u.sent.includes(k))continue;
   try{await webpush.sendNotification(u.sub,JSON.stringify({title:r.title,body:r.body,tag:r.id}));u.sent.push(k);dirty=true}
   catch(e){if(e.statusCode===404||e.statusCode===410){delete D.subs[ep];dirty=true;break}console.error('push failed',e.statusCode||e.message)}}}
  if(dirty)save()}
 setInterval(tick,30000);
-app.listen(process.env.PORT||3000,()=>console.log('Mint Budget on port '+(process.env.PORT||3000)));
+app.listen(process.env.PORT||3000,()=>console.log('ISIGO on port '+(process.env.PORT||3000)));

diff --git a/public/sw.js b/public/sw.js
@@ -1,6 +1,6 @@
 self.addEventListener('install',()=>self.skipWaiting());
 self.addEventListener('activate',e=>e.waitUntil(self.clients.claim()));
 self.addEventListener('push',e=>{let d={};try{d=e.data.json()}catch(_){}
- e.waitUntil(self.registration.showNotification(d.title||'Mint Budget',{body:d.body||'',icon:'/icon-192.png',badge:'/icon-192.png',tag:d.tag}))});
+ e.waitUntil(self.registration.showNotification(d.title||'ISIGO',{body:d.body||'',icon:'/icon-192.png',badge:'/icon-192.png',tag:d.tag}))});
 self.addEventListener('notificationclick',e=>{e.notification.close();
  e.waitUntil(clients.matchAll({type:'window',includeUncontrolled:true}).then(l=>l[0]?l[0].focus():clients.openWindow('/')))});

diff --git a/README.md b/README.md
@@ -1,4 +1,4 @@
-# 🌿 Mint Budget
+# 🌿 ISIGO: Budget Tracker
 
 A minimalist personal budget planner with a mint-green design. Set your salary, add your bills, and see what to pay first, what's left, and how your budget is trending. Bill reminders arrive on your phone as push notifications, even when the app is closed.
 
@@ -8,6 +8,7 @@ A minimalist personal budget planner with a mint-green design. Set your salary, 
 - **Bills**: name, amount, due day and category. Sorted so the most urgent bill comes first, with Overdue / Due today / In N days labels. Mark bills paid each month.
 - **Quick Spend**: a shortcut page for unplanned expenses such as a spontaneous hangout, food, a gift or an emergency.
 - **Dashboard**: status (Healthy, Tight or Critical), a donut chart, category bars, a per-paycheck breakdown for bi-monthly pay, and a weekly/monthly trend line that shows when you had extra or came up short.
+- **Savings Tracker**: set a goal with a target amount and time frame (months or years), log what you save, and see completion rings, progress bars and whether you are on track.
 - **Tips**: advice that changes with your budget situation.
 - **Reminders**: web push notifications at 9:00 AM, N days before a bill is due and on the due day itself.
 - **Installable**: works as a Progressive Web App (Android: Install app; iPhone: Add to Home Screen).
